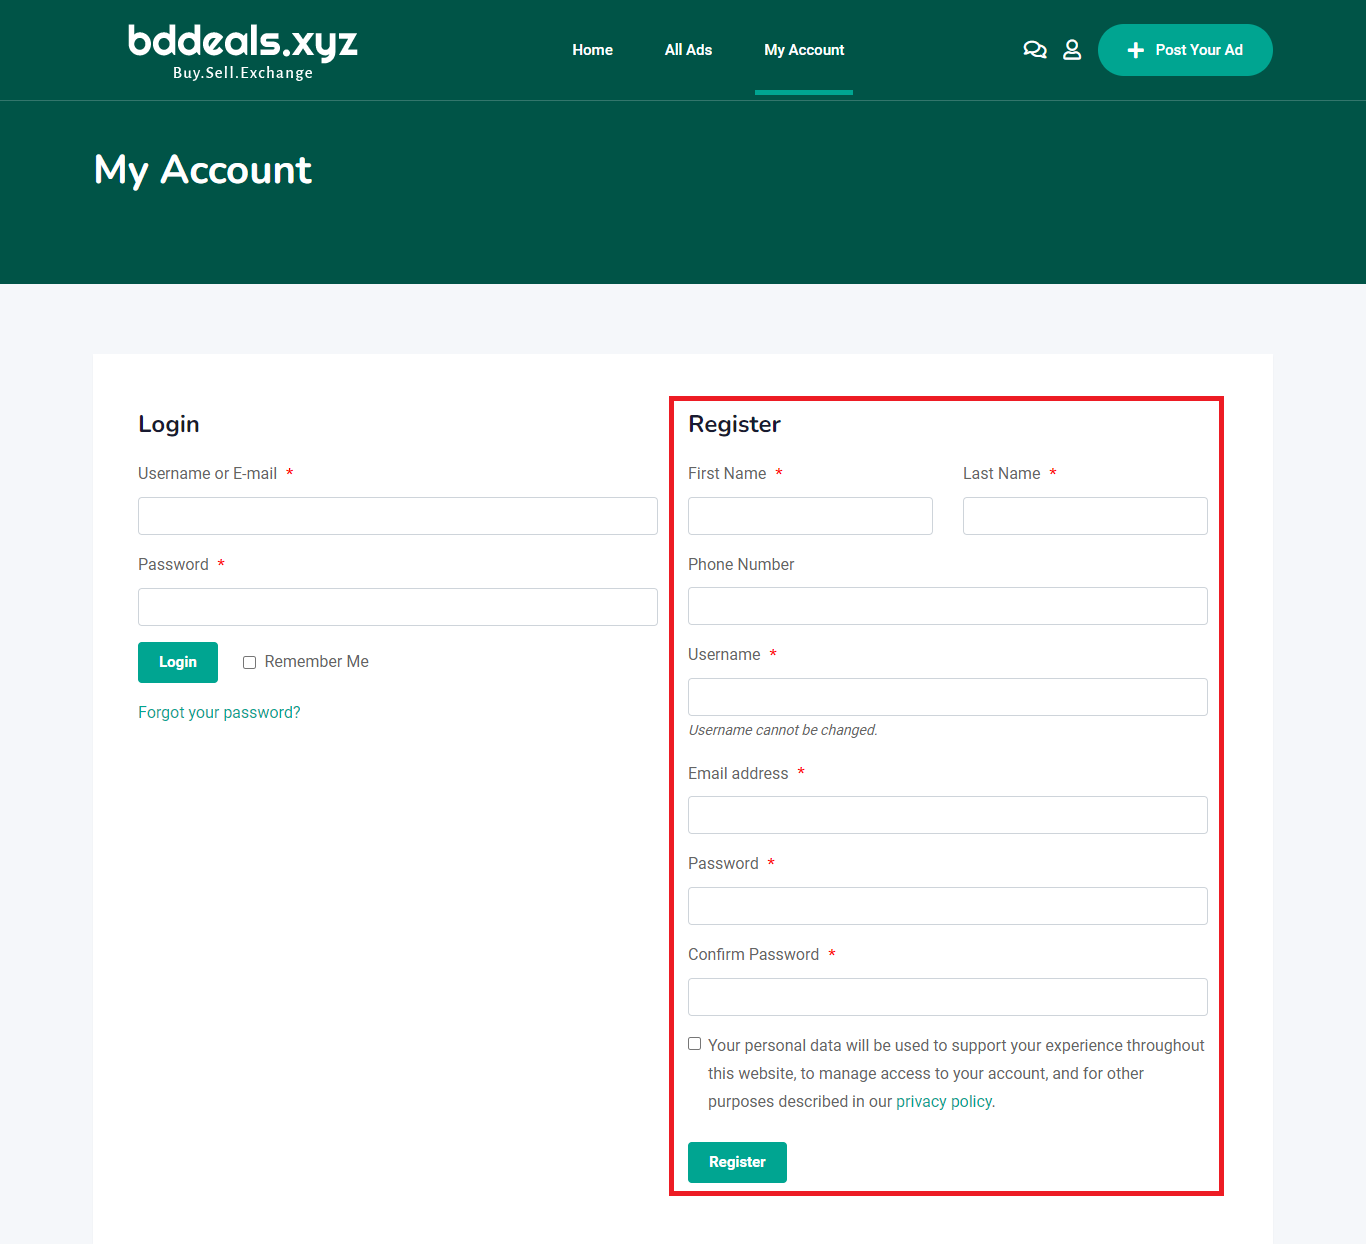
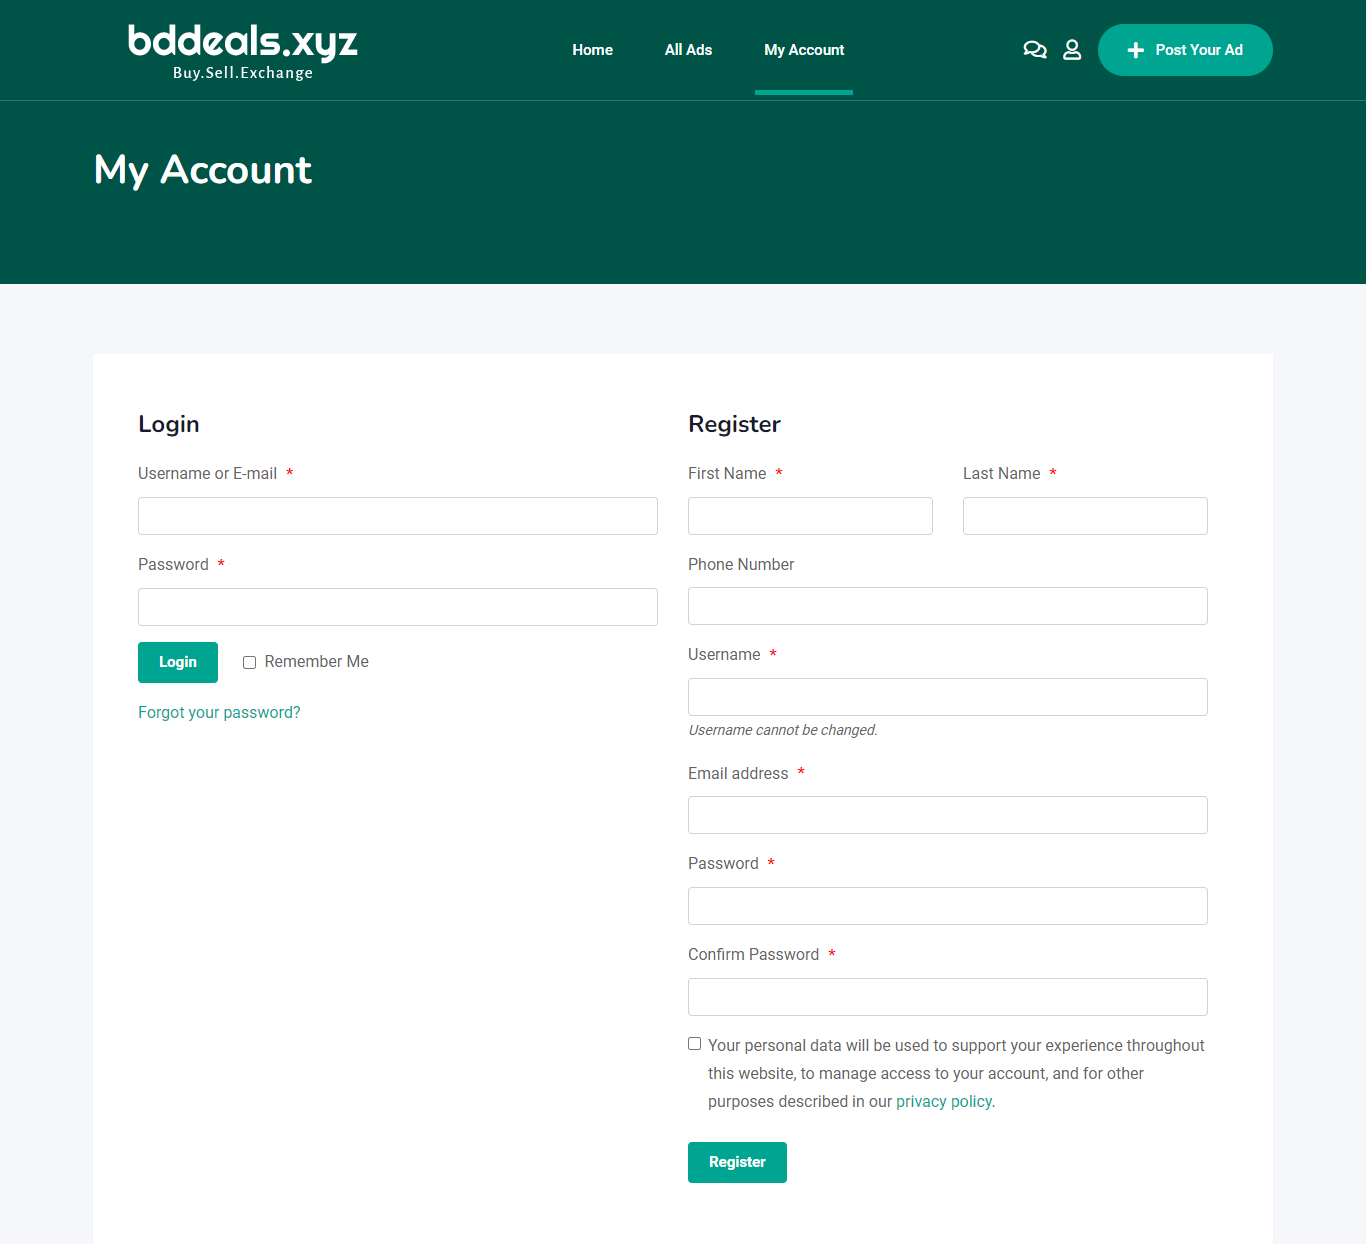
Add files via upload

Changed region(s): [[0.8917, 0.336, 0.9224, 0.9469], [0.4919, 0.9469, 0.8917, 0.9775], [0.4919, 0.3055, 0.8917, 0.336]]

diff --git a/docs/implementation.md b/docs/implementation.md
@@ -6,16 +6,16 @@ The Classified Multi-Vendor Ads Management Website was submitted as an undergrad
 
 ## 2. Architecture and provenance
 
-The website files available for review show that the site uses **WordPress, the Classima theme, and related plugins**. The thesis discusses HTML, CSS, JavaScript, Bootstrap, PHP, and Laravel as well. Since the reviewed website files are WordPress-based, I have not described the project as a custom Laravel backend.
+Review of the available implementation files points to a **WordPress website using the Classima theme and theme/plugin functionality**. The original thesis also discusses an HTML/CSS/JavaScript, Bootstrap, PHP, and Laravel technology stack. This should be understood as a distinction between the thesis's written description and the implementation artifacts inspected; it should **not** be taken as proof that a custom Laravel backend was implemented.
 
-Based on the files and screenshots available:
+The available evidence supports the following characterization:
 
 - **Platform:** WordPress, PHP-based CMS.
 - **Presentation layer:** Classima classified-listings theme with website styling and theme templates.
 - **Features:** Theme/plugin-enabled listings, user registration, filtering, and account workflows.
 - **Data persistence:** WordPress-managed database and associated theme/plugin data structures; a precise live schema is not supplied in this repository.
 
-I have not listed specific software versions because I could not confirm them from the files available.
+No exact WordPress, Classima, plugin, PHP, or database version is asserted without verifiable configuration data.
 
 ## 3. Visible functional flows
 
@@ -24,7 +24,7 @@ I have not listed specific software versions because I could not confirm them fr
 3. **Submit an ad:** A user selects a category and enters product information, condition, price, and description.
 4. **Manage ads:** The account area displays a user's listings and provides management actions.
 
-These features are documented from the original screenshots. I have not retested the complete website.
+These are functional observations from saved screenshots, not an assertion that every production path was independently retested.
 
 ## 4. Diagrams and interpretation
 
@@ -34,11 +34,11 @@ These features are documented from the original screenshots. I have not retested
 - **DFD Level 1** decomposes key management processes.
 - **DFD Level 2** further expands management functions.
 
-These are diagrams from the thesis, not diagrams of the exact WordPress database or plugin code. They can be viewed in the [README](../README.md#system-design-diagrams).
+The diagrams are original academic planning/design figures and **do not claim to document the exact internal WordPress database tables or plugin code**. See the [README](../README.md#system-design-diagrams) to view them.
 
 ## 5. Source availability and limitations
 
-I have included the thesis, screenshots, and design diagrams to document the project. To run the website again, I would need a WordPress installation, a properly licensed theme, compatible plugins, the website database, and hosting details. Those files are not included here. Private information, passwords, and licensed third-party packages should not be uploaded to a public repository.
+This repository intentionally focuses on academic evidence: original thesis, screenshots, and design diagrams. A complete runnable website would also require an authorized WordPress installation, licensed theme files, compatible plugins, configuration, database content, and hosting environment. Those resources are **not included**. Avoid committing sensitive configuration, credentials, private user data, licensed vendor archives, or a full site backup to a public repository.
 
 ## 6. Thesis citation
 
